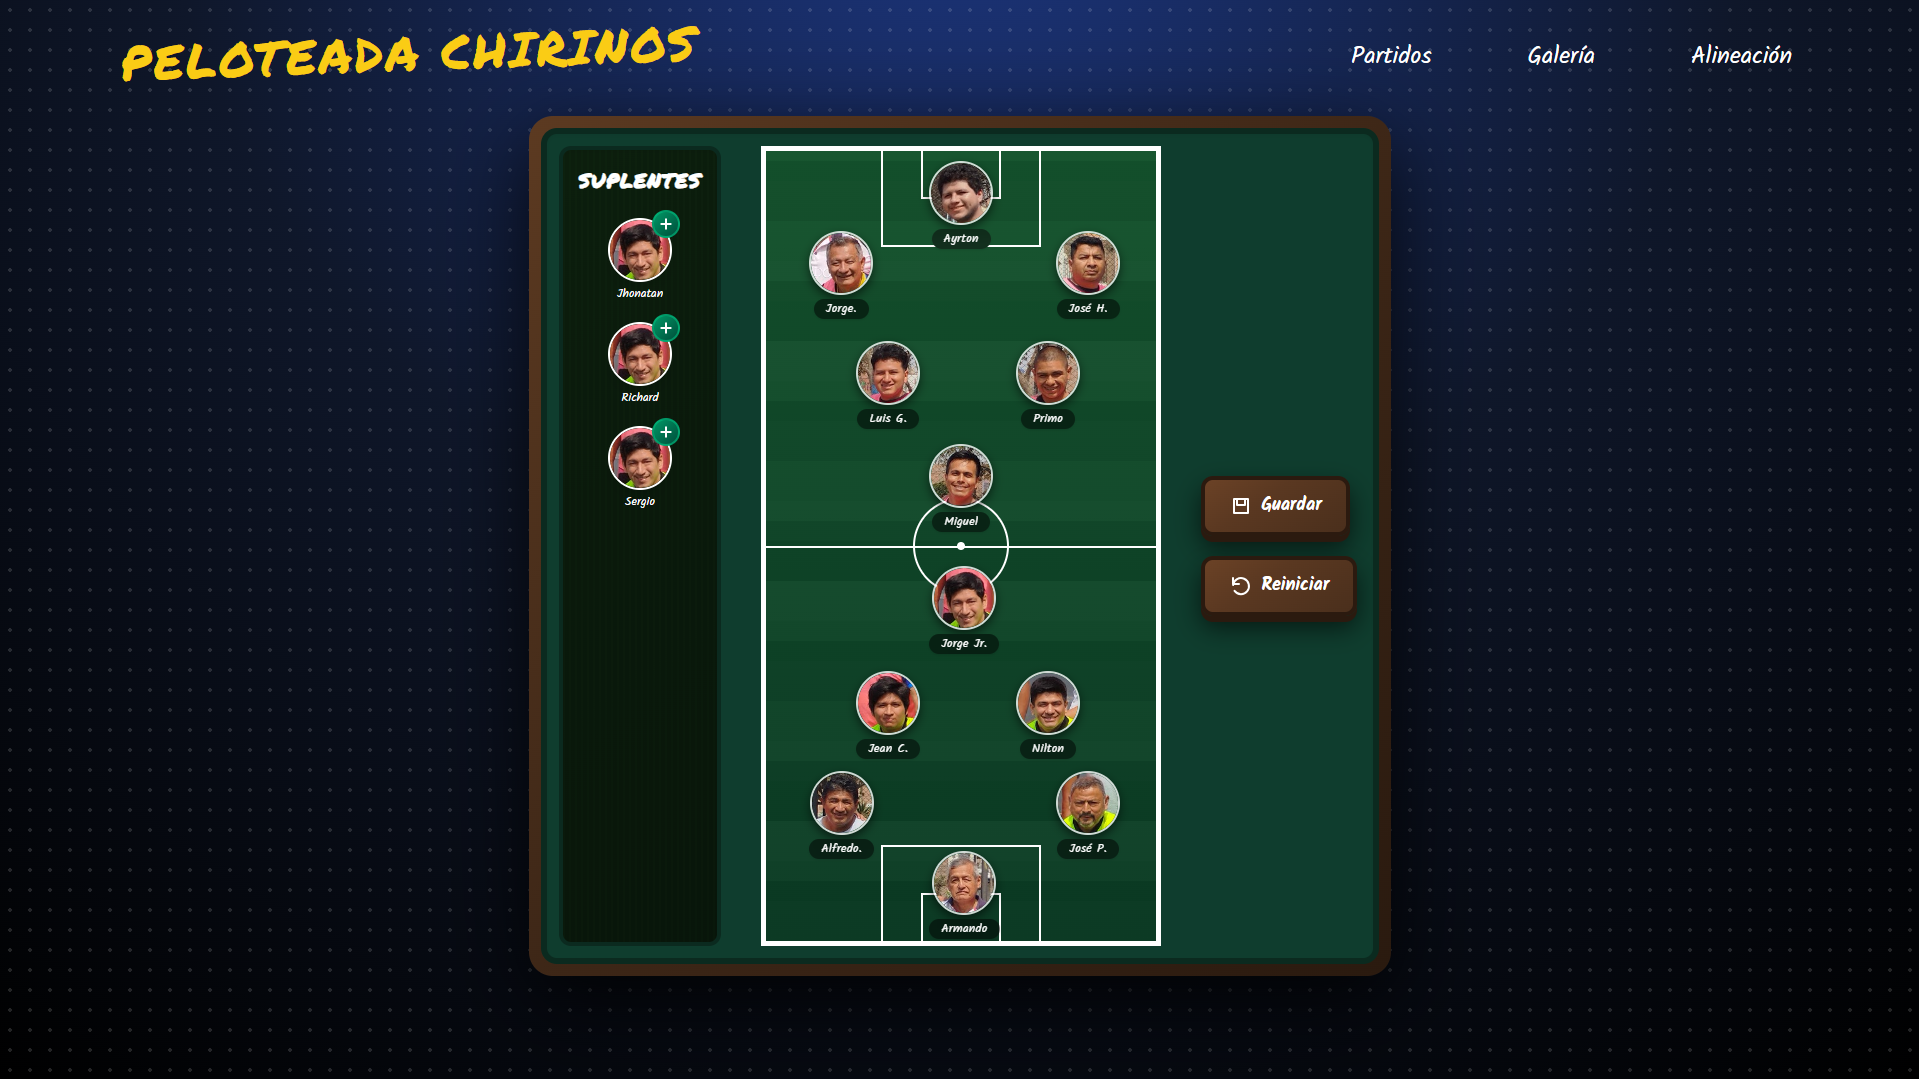
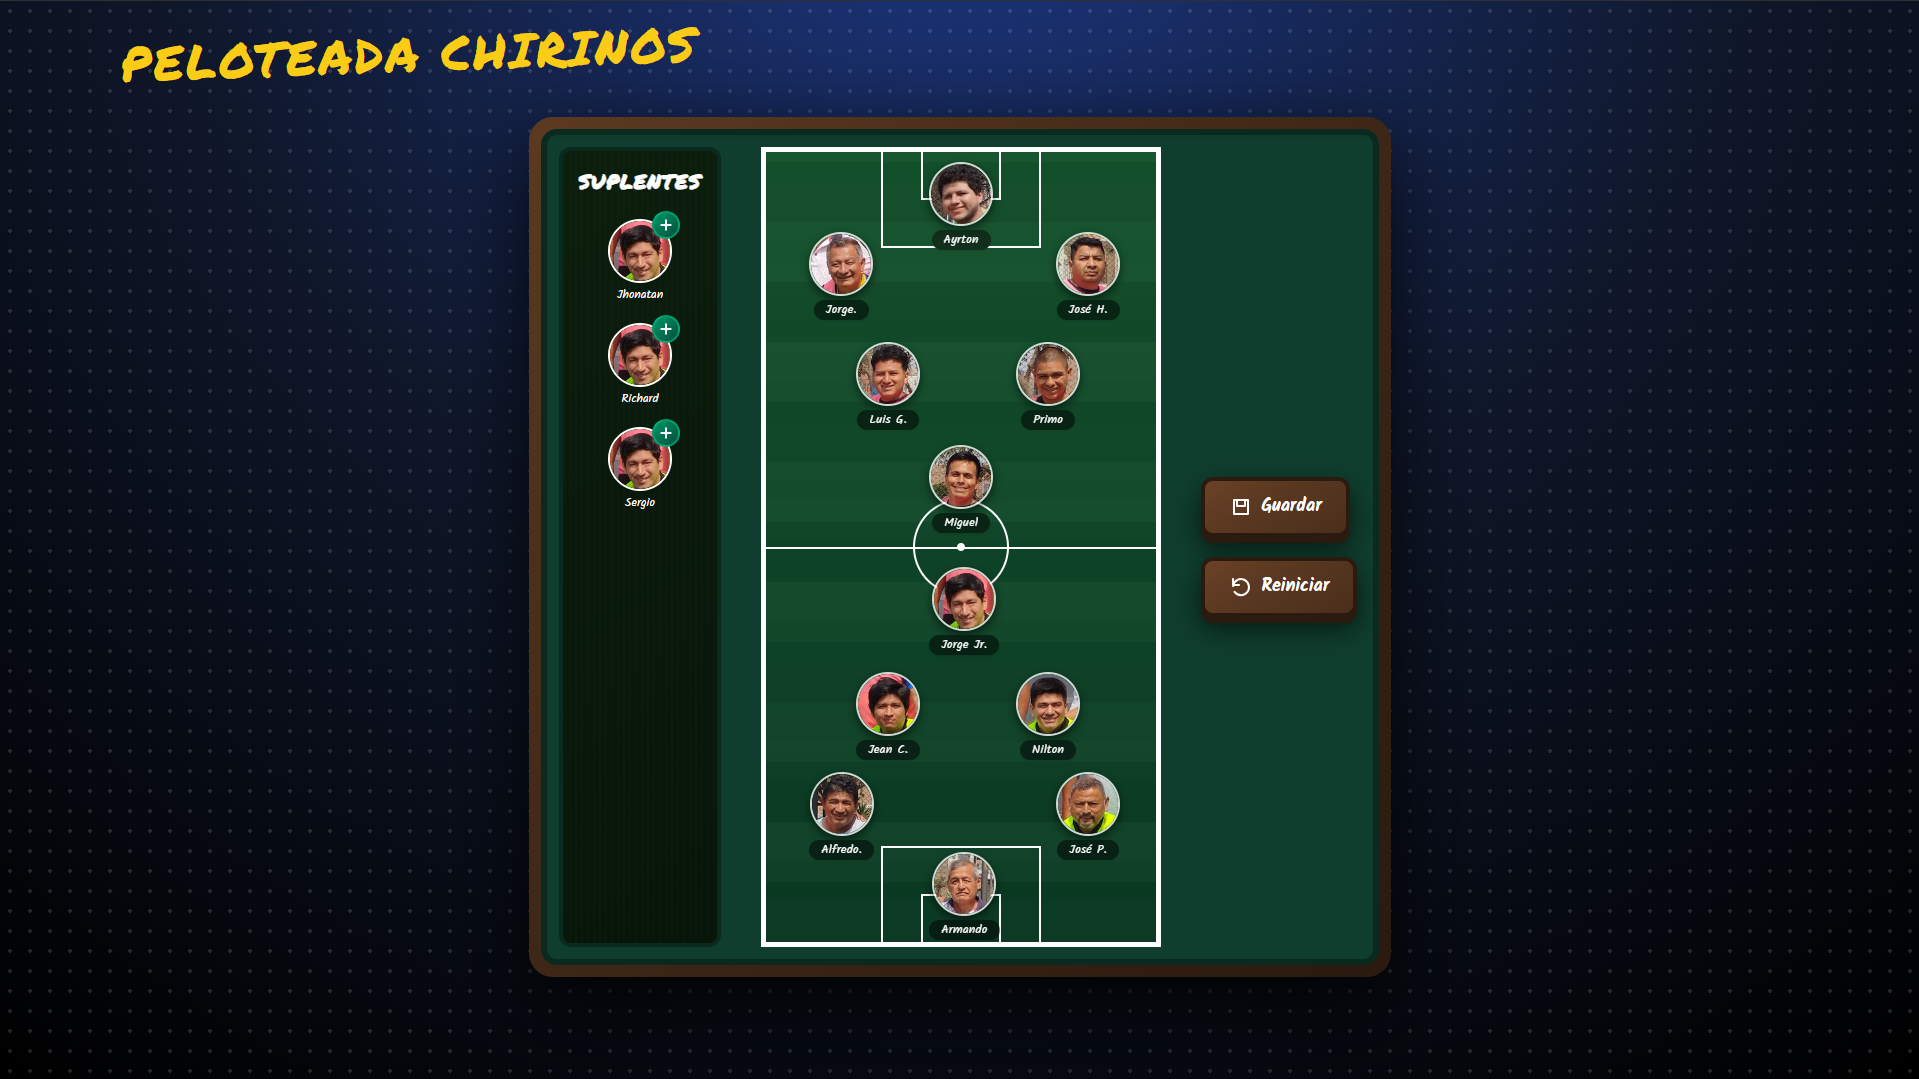
Update project descriptions for improved clarity and remove commented-out code in SidebarRight component

diff --git a/src/views/HomeView.vue b/src/views/HomeView.vue
@@ -21,7 +21,7 @@ const projects = [
     title: "GunBound",
     image: gb_preview,
     description:
-      "Sitio web que aloja información de los emotes y móviles del juego GunBound.",
+      "Proyecto web que aloja información de los emotes y móviles del juego GunBound.",
     url: "https://gunbound-weld.vercel.app/emotes",
     technologies: [
       "devicon-vuejs-plain",
@@ -33,7 +33,7 @@ const projects = [
     title: "Peloteada Chirinos",
     image: peloteada_preview,
     description:
-      "Sitio web para organizar y gestionar partidos de fútbol de la familia Chirinos.",
+      "Proyecto web para crear alineaciones de fútbol 6 vs 6 utilizado para organizar partidos.",
     url: "https://peloteada-chirinos.vercel.app/",
     technologies: [
       "devicon-react-original",

diff --git a/src/components/SidebarRight.vue b/src/components/SidebarRight.vue
@@ -23,12 +23,12 @@
         Proyectos
       </a>
 
-      <a
+      <!-- <a
         href="#contact"
         class="nav-section text-lg sm:text-xl 2xl:text-2xl order-3 2xl:order-3 text-white 2xl:text-slate-500"
       >
         Contáctame
-      </a>
+      </a> -->
     </nav>
   </aside>
 </template>
